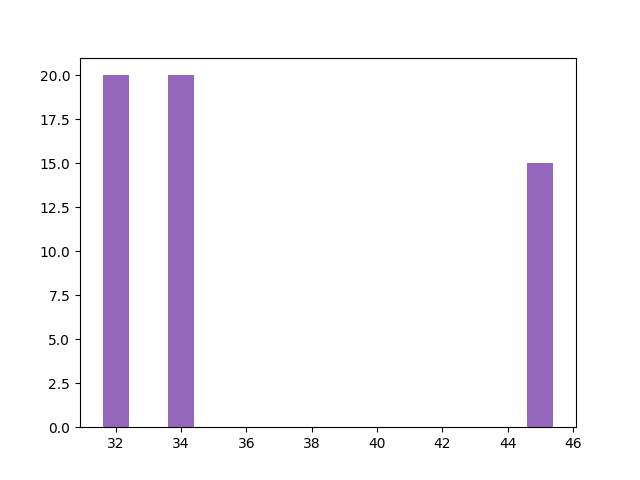
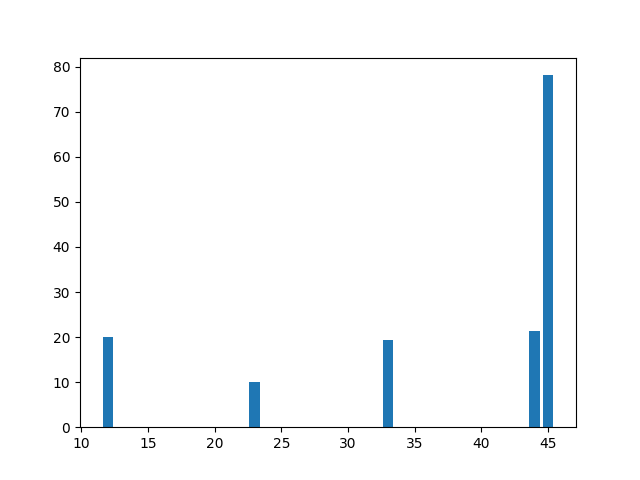
Histogram Plot finally implemented to connect to the login file. Login now error which played the maze game is now fixed and loops game correct number of times. Maze games now record time taken correctly and do not need rounded time values to work.

diff --git a/Histogram.py b/Histogram.py
@@ -6,7 +6,6 @@ import pygame as pg
 import pygame_gui as pg_gui
 
 import Database
-from Login import *
 from settings import *
 
 pg.init()
@@ -25,8 +24,6 @@ class Graph:
     def __init__(self):
         self.age = []
         self.time = []
-        self.username = ""
-        self.password = ""
         self.graph_window = pg_gui.elements.UIWindow(pg.Rect((10, 10), (790, 400)), manager)
         self.window = pg_gui.elements.UIWindow(pg.Rect((10, 400), (790, 400)), manager)
         self.start_but = pg_gui.elements.UIButton(pg.Rect((250, 250), BUTTON_SIZE), 'START', manager=manager, container=self.window)
@@ -34,9 +31,10 @@ class Graph:
 
     def time_age(self):
         users = Database.get_all_age_y_time(connection)
-        user = Database.get_user(connection, self.username, self.password)
-        user_avg_time = user[7]
-        user_age = user[3]
+        print(users)
+        logged_user = Database.get_user(connection, self.username, self.password)
+        user_avg_time = logged_user[7]
+        user_age = logged_user[3]
         
         for user in users:
             self.age.append(user[0])
@@ -44,6 +42,23 @@ class Graph:
             
         time_quartile = np.quantile(self.time, [0, 0.25, 0.5, 0.75, 1])
         age_quartile = np.quantile(self.age, [0, 0.25, 0.5, 0.75, 1])
+        if time_quartile[0] <= user_avg_time < time_quartile[1]:
+            print("User time quartile 1")
+        if time_quartile[1] <= user_avg_time < time_quartile[2]:
+            print("User time quartile 2")
+        if time_quartile[2] <= user_avg_time < time_quartile[3]:
+            print("User time quartile 3")
+        if time_quartile[3] <= user_avg_time <= time_quartile[4]:
+            print("User time quartile 4")
+
+        if age_quartile[0] <= user_age < age_quartile[1]:
+            print("User age quartile 1")
+        if age_quartile[1] <= user_age < age_quartile[2]:
+            print("User age quartile 2")
+        if age_quartile[2] <= user_age < age_quartile[3]:
+            print("User age quartile 3")
+        if age_quartile[3] <= user_age <= age_quartile[4]:
+            print("User age quartile 4")
 
     def plot(self):
         plt.bar(self.age, self.time)
@@ -62,20 +77,21 @@ class Graph:
     
 but = Graph()
 
-clock = pg.time.Clock()
-running = True
-while running:
-    time_delta = clock.tick(60)/1000.0
-    for event in pg.event.get():
-        if event.type == pg.QUIT:
-            running = False
-        if event.type == pg_gui.UI_BUTTON_PRESSED:
-            but.but_pressed(event.ui_element)
-        manager.process_events(event)
+def menu():
+    clock = pg.time.Clock()
+    running = True
+    while running:
+        time_delta = clock.tick(60)/1000.0
+        for event in pg.event.get():
+            if event.type == pg.QUIT:
+                running = False
+            if event.type == pg_gui.UI_BUTTON_PRESSED:
+                but.but_pressed(event.ui_element)
+            manager.process_events(event)
 
-    manager.update(time_delta)
-    manager.get_theme().load_theme(THEME_PATH)
-    display.blit(background, (0, 0))
-    manager.draw_ui(display)
+        manager.update(time_delta)
+        manager.get_theme().load_theme(THEME_PATH)
+        display.blit(background, (0, 0))
+        manager.draw_ui(display)
 
-    pg.display.update()
+        pg.display.update()

diff --git a/Login.py b/Login.py
@@ -2,6 +2,8 @@ from settings import *
 import pygame as pg
 import pygame_gui as pg_gui
 import Database
+import Histogram
+from Histogram import *
 from Main import *
 
 pg.init()
@@ -20,12 +22,19 @@ connection = Database.connect()
 
 class Login:
     def __init__(self, connection):
+        self.connection = connection
         self.username = ""
         self.password = ""
         self.age = 0
         self.DB_username = ""
         self.DB_password = ""
-        self.connection = connection
+
+        self.game_start = True
+        self.graph_start = False
+        self.count = 3
+        self.value = 1
+        self.time_array = []
+        
         self.username_entry = pg_gui.elements.UITextEntryLine(pg.Rect((350, 275), BUTTON_SIZE), manager)
         self.password_entry = pg_gui.elements.UITextEntryLine(pg.Rect((350, 325), BUTTON_SIZE), manager)
         self.age_entry = pg_gui.elements.UITextEntryLine(pg.Rect((350, 375), BUTTON_SIZE), manager)
@@ -43,12 +52,35 @@ class Login:
     def but(self, process):
         if process == self.reg_but:
             self.reg(connection)
-            print("Registration complete")
-            main = Main()
-            main.run()
+            while self.game_start:
+                self.game_loop()
+            while self.graph_start:
+                self.run_graph()
         if process == self.back_but:
             return False
-            
+        
+    def game_loop(self):
+        if self.count != 0:
+            main = Main()
+            main.run()
+            time = main.time_taken
+            self.time_array.append(time)
+            self.count -= 1
+            print(self.time_array)
+        elif self.count == 0:
+            self.game_start = False
+            self.graph_start = True
+
+    def run_graph(self):
+        t_avg = 0
+        for time in self.time_array:
+            t_avg += time
+        Database.get_times_from_user(self.connection, self.time_array[0], self.time_array[1], self.time_array[2], t_avg, self.username, self.password)
+        graph = Graph()
+        graph.username = self.username
+        graph.password = self.password
+        Histogram.menu()
+
     def reg(self, connection):
         null = 0
         Database.add_user(self.connection, self.username, self.password, self.age, null, null, null, null, null)
@@ -60,6 +92,7 @@ class Login:
         pass
     
 process = Login(connection)
+
 def menu():
     clock = pg.time.Clock()
     running = True

diff --git a/Main.py b/Main.py
@@ -1,5 +1,6 @@
 import pygame as pg
 import pygame_gui as pg_gui
+import time
 import sys
 
 from settings import *
@@ -17,7 +18,11 @@ class Main:
         self.manager = pg_gui.UIManager((RES))
         self.game_start = True
         self.running = True
+        self.time_taken = 0
     
+    def record_time(self):
+        return time.time()
+        
     def new_game(self):
         self.map = Map(self)
         self.player = Player(self)
@@ -38,13 +43,19 @@ class Main:
         self.map.draw()
     
     def run(self):
+        time_start = self.record_time()
+        self.running = True
         while self.running == True:
             self.chk_game_events()
             self.update_game()
             self.draw_game()
             self.clock.tick(60)
+            if self.player.game_stop == True:
+                time_end = self.record_time()
+                self.time_taken = (time_end - time_start)
+                self.running = False
+                
             
-
 if __name__ == '__main__':
     main = Main()
     main.run()

diff --git a/player.py b/player.py
@@ -44,9 +44,7 @@ class Player:
         if self.wall_check(int(self.x + x_change), int(self.y)):
             self.x += x_change
         elif self.finish_check((self.x), (self.y)) == [int(self.x + x_change), int(self.y)]:
-            self.completion += 1
             self.game_stop = True
-            print(self.completion)
         else:
             self.x, self.y = PLAYER_START1
             if not self.wall_check(int(self.x), int(self.y)):
@@ -56,9 +54,7 @@ class Player:
         if self.wall_check(int(self.x), int(self.y + y_change)):
             self.y += y_change
         elif self.finish_check((self.x), (self.y)) == [int(self.x), int(self.y + y_change)]:
-            self.completion += 1
             self.game_stop = True
-            print(self.completion)
         else:
             self.x, self.y = PLAYER_START1
             if not self.wall_check(int(self.x), int(self.y)):

diff --git a/SQL_Interaction.py b/SQL_Interaction.py
@@ -45,6 +45,13 @@ def Update_Times_User_ID(connection):
             
     Database.get_times_from_user_id(connection, t_1, t_2, t_3, t_avg, identifier)
 
+def Get_User_By_Name(connection):
+    username = input("Enter username:")
+    password = input("Enter password:")
+
+    user = Database.get_user(connection, username, password)
+    print(user)
+
 def menu():
     connection = Database.connect()
     Database.create_tables(connection)
@@ -55,7 +62,7 @@ def menu():
         elif user_input == "2":
             See_All_Users(connection)
         elif user_input == "3":
-            pass
+            Get_User_By_Name(connection)
         elif user_input == "4":
             Update_Times_User(connection)
         elif user_input == "5":

diff --git a/options.py b/options.py
@@ -18,11 +18,13 @@ class Settings_But:
         self.theme = THEME_PATH
         self.continue_but = pg_gui.elements.UIButton(pg.Rect((350, 275), BUTTON_SIZE), 'CONTINUE', manager)
         self.colblind_dropdown = pg_gui.elements.UIDropDownMenu(['Colour Blind 0', 'Colour Blind 1', 'Colour Blind 2', 'Colour Blind 3', 'Colour Blind 4', 'Colour Blind 5'], 'Colour Blind 0', pg.Rect((100, 100), (200, 30)), manager)
+        self.active = True
 
     def but_pressed(self, but):
         if but == self.continue_but:
             Main_Menu_GUI.menu()
-            
+            return False
+
     def drop_used(self, used, pre_event):
         event = pre_event
         if used == self.colblind_dropdown:

diff --git a/Database.py b/Database.py
@@ -6,7 +6,7 @@ INSERT_USER = "INSERT INTO users (username, password, age, t_1, t_2, t_3, t_avg,
 
 GET_ALL_USERS = "SELECT * FROM users;"
 GET_ALL_AGE_Y_TIME = "SELECT age, t_avg FROM users;"
-GET_USER_BY_NAME = "SELECT * FROM users WHERE username = ? AND WHERE password = ?;"
+GET_USER_BY_NAME = "SELECT * FROM users WHERE username = ? AND password = ?;"
 UPDATE_USER_TIMES_UP = "UPDATE users SET t_1 = ?, t_2 = ?, t_3 = ?, t_avg = ? WHERE username = ? AND password = ?;"
 UPDATE_USER_TIMES_ID = "UPDATE users SET t_1 = ?, t_2 = ?, t_3 = ?, t_avg = ? WHERE id = ?;"
 
